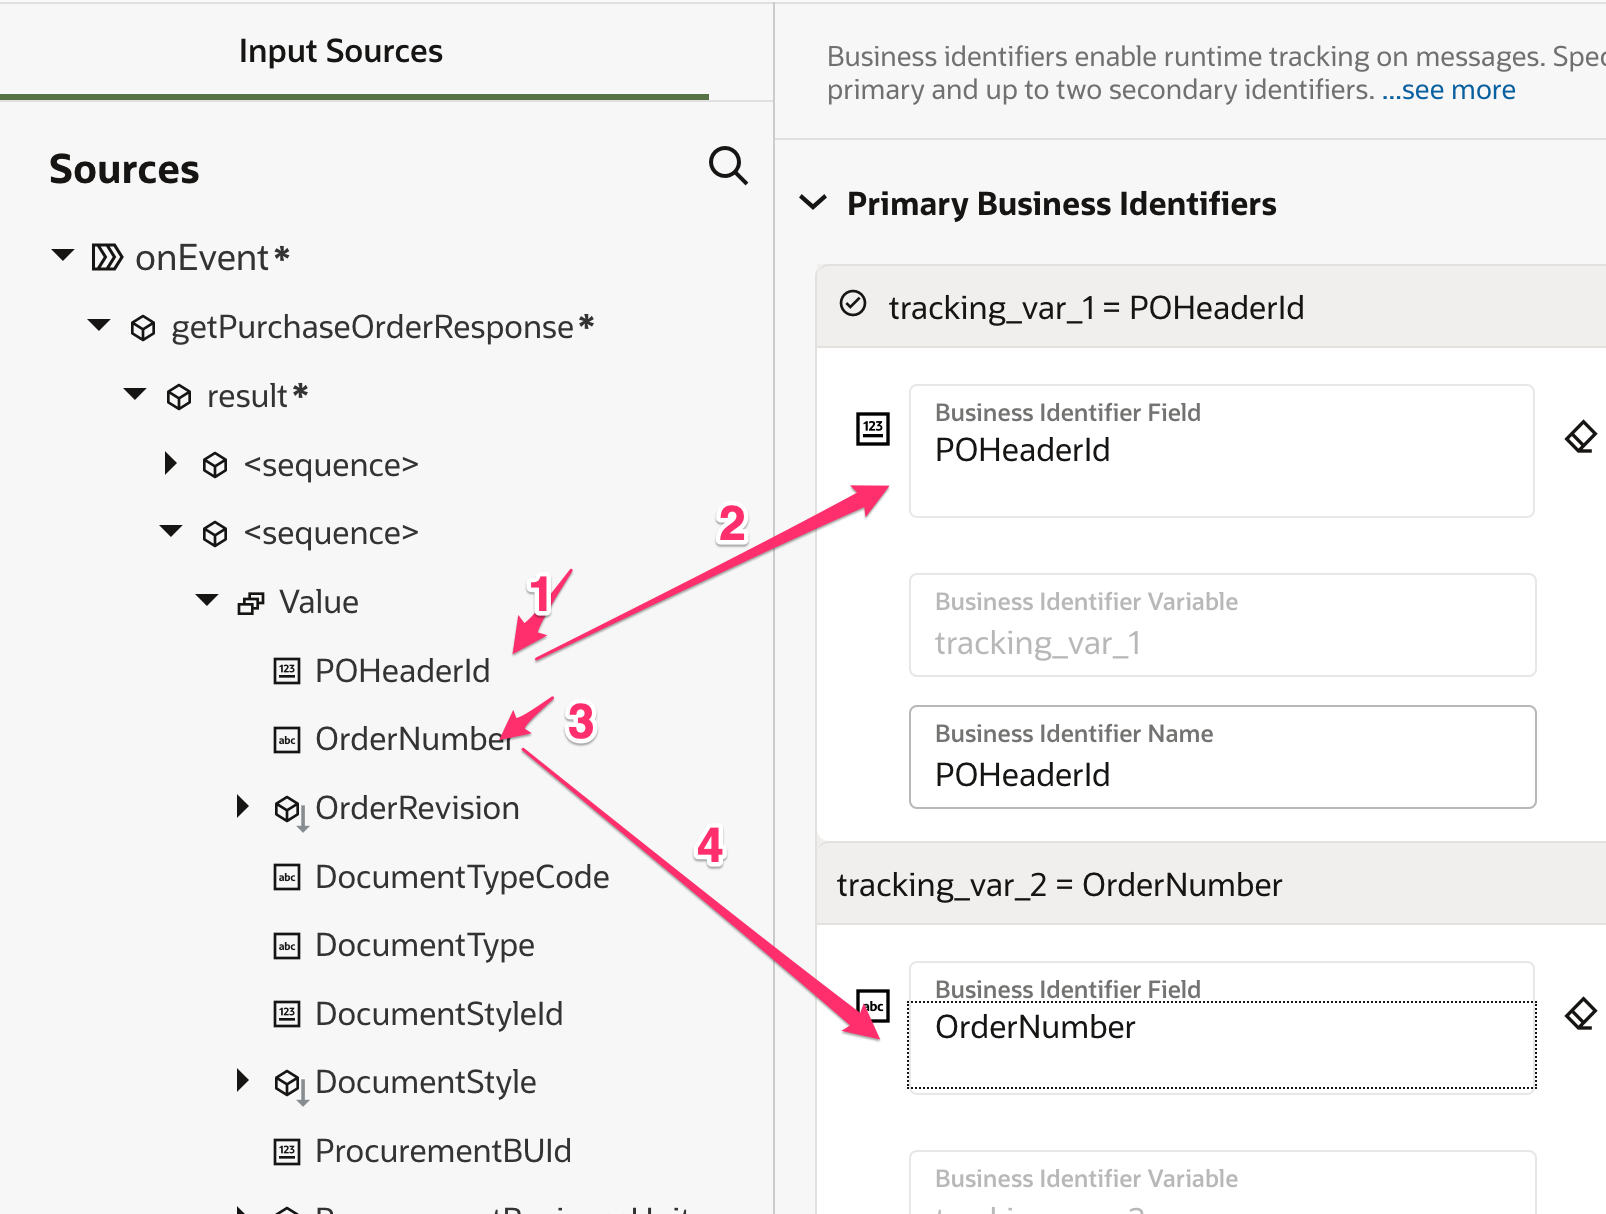
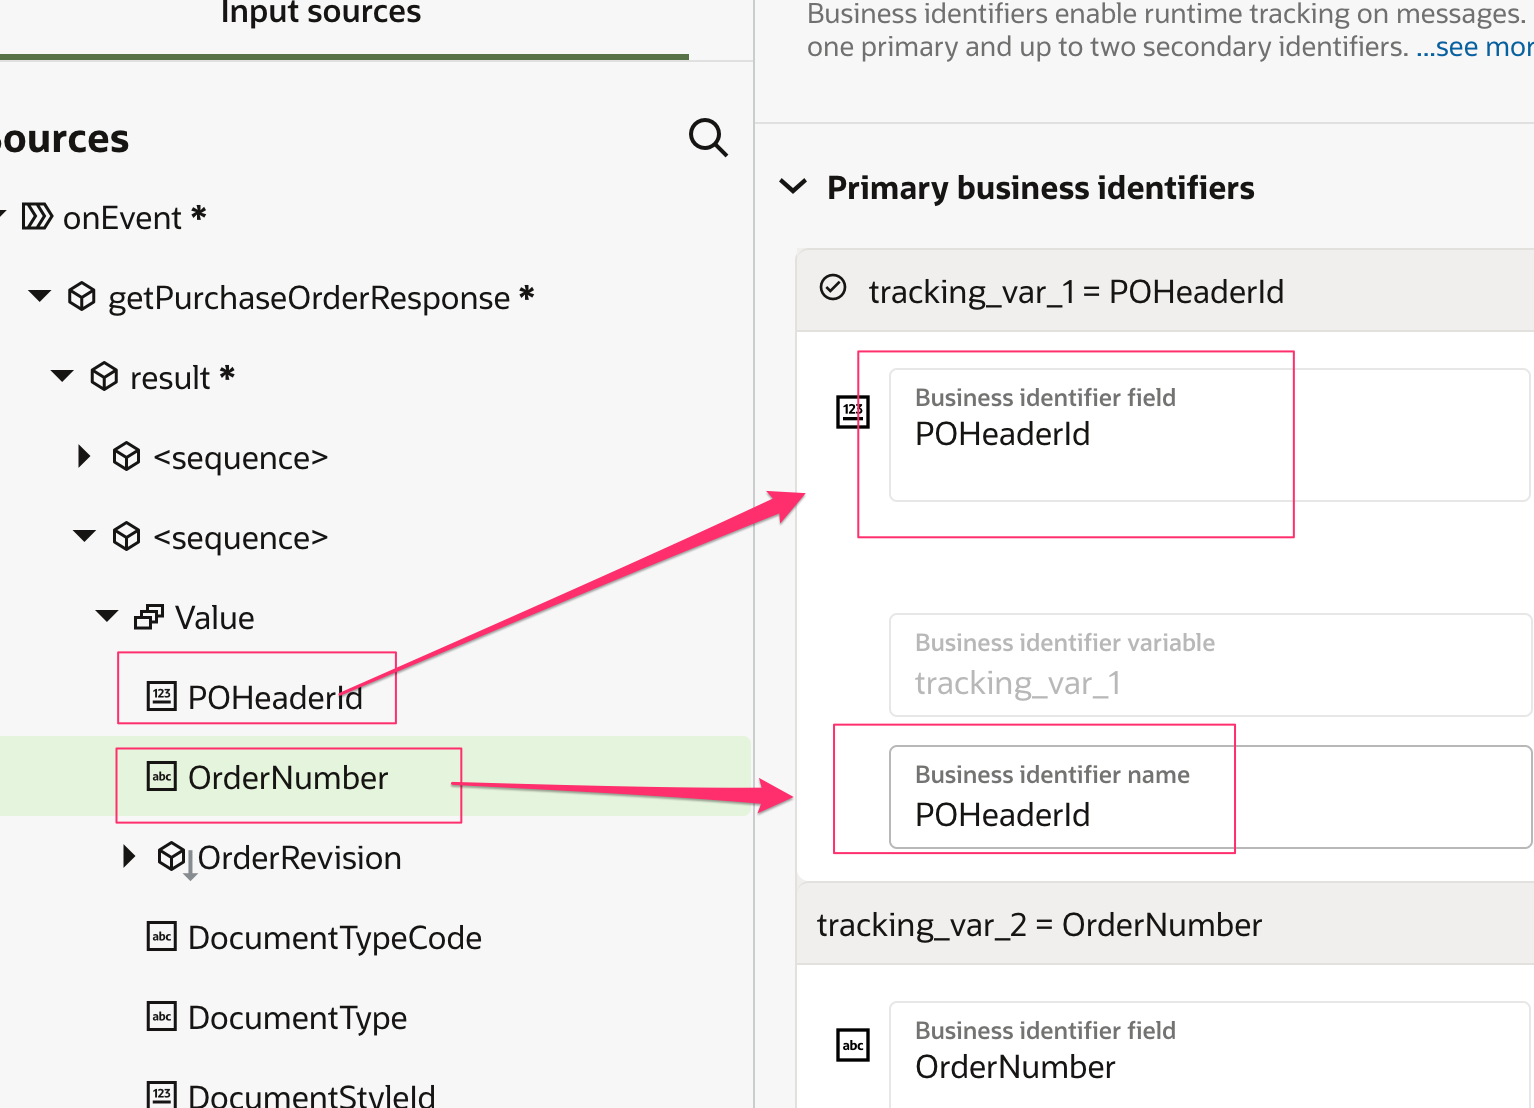
Events review
Cookbook Events review completed

diff --git a/oic-gen3/cookbooks/erp-cloud/realtimesync/business-events/business-events-integration.md b/oic-gen3/cookbooks/erp-cloud/realtimesync/business-events/business-events-integration.md
@@ -55,13 +55,12 @@ Add ERP PO Event trigger to the empty integration canvas.
 
 1. Click the ***+*** sign below **START** in the integration canvas.
 
-2. Select the ERP Cloud connection which you have created in the previous labs. This invokes the Oracle ERP Cloud Endpoint Configuration Wizard.
+2. Select the *ERP Cloud* connection which you have created in the previous labs. This invokes the Oracle ERP Cloud Endpoint Configuration Wizard.
+3. On the **Basic Info** page,
+     - for the **What do you want to call your endpoint?** element, enter ***POEvent***
+     - Click ***> (Next Step)***.
 
-3. On the Basic Info page, for the **What do you want to call your endpoint?** element, enter ***POEvent***.
-
-4. Click ***> (Next Step)***.
-
-5. On the Request page, select the following values:
+4. On the **Request** page, select the following values:
 
     | **Element**        | **Value**          |       
     | --- | ----------- |
@@ -81,23 +80,24 @@ Add ERP PO Event trigger to the empty integration canvas.
     > **Note:** The filter is not required, however, it does allow you to control which integration should be triggered. This is useful if there are multiple integrations subscribed to the PO Event in the same ERP Cloud environment. Without the filter expression, all integrations subscribed to the PO Event would get triggered whenever that specific event occurs.
 
 6. Click ***> (Next Step)***.
-
-7. On the Response page, for **Response Type** element, choose ***None***. Click ***> (Next Step)***.
-
-8. On the Summary page, click ***Done***.
-
+7. On the **Response page**,
+    - for **Response Type** element, choose ***None***.
+    - Click ***> (Next Step)***.
+8. On the **Summary** page, click ***Done***.
 9. Click ***Save*** to persist changes.
+10. Optional, Select Layout to ***Horizontal*** and click ***Save*** to apply changes.
+![Select Horizontal Layout](images/horizontallayout.png =30%x*)
 
 ## Task 3: Add the FTP Adapter as invoke activity
 Add the FTP Adapter invoke to the integration canvas.
-1. Hover your cursor over the arrow in the integration canvas to display the ***+*** sign. Click the ***+*** sign and select the FTP Connection the previous lab.
+1. Hover your cursor over the arrow in the integration canvas to display the ***+*** sign. Click the ***+*** sign and select the **File Server** Connection created in the previous lab.
 This invokes the FTP adapter Configuration Wizard.
-2. On the **Basic Info** page, select the following values:
+2. On the **Basic Info** page, select the following values and click ***> (Next Step)***.
   | **Element**        | **Value**          |       
   | --- | ----------- |
   | What do you want to call your endpoint? | `Write2FTP`       |
 
-3. On the **Operation** page, select the following values:
+3. On the **Operation** page, select the following values and click ***> (Next Step)***.
 
     | **Element**        | **Value**          |       
     | --- | ----------- |
@@ -106,8 +106,10 @@ This invokes the FTP adapter Configuration Wizard.
     | File Name Pattern | PO%SEQ%.json  |
 
     Leave the rest as default.
-3. On the **Schema page**, select the ***Sample JSON document*** from the drop-down. In the **Do you want to specify the structure of the contents of the file?** as ***Yes***
-4. Copy the below json content into a file and save it to your desktop. Name it as ***PurchaseOrder.json***
+3. On the **Schema page**,
+    - For the **Do you want to specify the structure of the contents of the file?**, select as ***Yes***
+    - select the ***Sample JSON document*** from the drop-down.
+    - Copy the below json content into a file and save it to your desktop. Name it as ***PurchaseOrder.json***
 
 ```
 <copy>
@@ -122,9 +124,10 @@ This invokes the FTP adapter Configuration Wizard.
   }
 </copy>
 ```
-5. On the **File Contents - Definition** page, upload the file **PurchaseOrder.json** saved in the previous step
-6. Click ***> (Next Step)*** and Review the **Summary** page and click on ***Done***
-7. Click on ***Save***
+4. Click ***> (Next Step)***.
+6. On the **File Contents - Definition** page, upload the file **PurchaseOrder.json** saved in the previous step
+7. Click ***> (Next Step)*** and Review the **Summary** page and click on ***Done***
+8. Click on ***Save***
 
 ## Task 4: Map data between ERP trigger and FTP invoke
 Use the mapper to drag fields from the source structure (POEvent)  to the target structure (Write2FTP) to map elements between the two.
@@ -152,13 +155,13 @@ When we added the FTP invoke to the integration, a map icon was automatically ad
 
     | **Source** *(ERP Cloud)*        | **Target** *(FTP)* |
     | --- | ----------- |
-    | PO Header Id | poHeaderId |
-    | Order Number | orderNumber |
-    | Procurement BU Id | procurementBUId |
-    | Procurement Business Unit | procurementBusinessUnit |
-    | Sold To Legal Entity Id | soldToLegalEntity |
-    | supplierId | supplierId |
-    | supplier | supplier |
+    | PO Header Id | PO Header Id |
+    | Order Number | Order Number |
+    | Procurement BU Id | Procurement BU Id |
+    | Procurement Business Unit | Procurement Business Unit |
+    | Sold To Legal Entity Id | Sold To Legal Entity |
+    | supplierId | Supplier Id |
+    | supplier | Supplier |
 
 
    ![Completed Mapping](images/mapper-completed-erp-ftp-1.png)
@@ -177,7 +180,7 @@ Manage business identifiers that enable you to track fields in messages during r
 1. Click on the ***(I) Business Identifiers*** menu on the top right.
     ![Open Business Identifiers For Tracking](images/open-business-identifiers.png)
 
-2. From the **Source** section, expand ***getPurchaseOrderResponse*** > ***result***, click on 2nd ***<sequence>***, expand ***Value***. Drag the ***POHeaderId*** and ***OrderNumber***  fields to the right side section:
+2. From the **Source** section, expand ***getPurchaseOrderResponse*** > ***result***, click on 2nd sequence, expand ***Value***. Drag the ***PO Header Id*** and ***Order Number***  fields to the right side section:
 
     ![Assign Business Identifiers](images/assign-business-identifiers.png)
 
@@ -191,7 +194,7 @@ Manage business identifiers that enable you to track fields in messages during r
 
     ![Click to Activate Integration](images/click-activate-integration.png)
 
-2. On the **Activate Integration** dialog, select ***Enable Tracing***, followed by ***Include Payload*** options.
+2. On the **Activate Integration** dialog, select ***Audit*** as tracing level.
 
 3. Click ***Activate***.
 
@@ -216,13 +219,11 @@ Access your ERP Cloud environment.
 
   The **Create Order** dialog is displayed.
 
-6. Enter a valid entry in the **Supplier** field, for example, `ABC Consulting`, and select the corresponding supplier in the dropdown.
+6. Select **Requisitioning BU** as **Procurement BU** and Enter a valid entry in the **Supplier** field, for example, `Dell Inc`, and select the corresponding supplier in the dropdown.
 
   **Tip:** You can also search for valid suppliers using the **Search** icon.
 
 7. Click ***Create***.
-
-      ![Create Purchase Order](images/create-po.png)
 
   The **Edit Document (Purchase Order)** page is displayed.
 
@@ -233,31 +234,16 @@ Access your ERP Cloud environment.
 
       | **Field**        | **Value**          |       
       | --- | ----------- |
-      | Line | `1` (Default)       |
       | Type | `Goods` |
-      | Item | Choose a valid item. For example, start typing `AS`, and choose an item from the resulting drop-down (or press the search button to select a valid item)
       | Description | Remove the existing description and enter the same value used for **Lab 7 > Task 5 > Step 5: Filter Expr for Purchase Order Event**. For example: `Lan Cable <your-initials>`|
-      | Quantity | Enter a valid number, eg. `2` |
+      | Category Name | search for Computer Supplies and then select it |
+      | Quantity | Enter a valid number, eg. `1` |
       | UOM | `Ea` (Default) |
-      | Base Price | Enter a valid number, eg. `2`
+      | Base Price | Enter a valid number, eg. `1.0`
 
-      ![Review PO line](images/review-po-line.png)
-
-10. Click the ***EDIT*** button under the *Lines* section.
-      ![Edit PO line](images/edit-po-line.png)
-
-      This opens the *Edit Line* page for the current purchase order line.
-
-11. Enter a future date in either *Requested Delivery Date* or *Promised Delivery Date* fields.
-      ![Add PO line delivery date](images/add-delivery-date.png)
-
-12. Click ***OK*** at the top right of the *Edit Line* page and return to the parent window.
-
-13. Click ***Submit*** to initiate the Purchase Order processing.
+10. Click ***Submit*** to initiate the Purchase Order processing.
 
     After submitting the Purchase Order, a confirmation message should appear with the PO number. Make a note of the **PO number**
-
-14. Click ***OK*** to close the confirmation dialog.
 
 
 ## Task 8: Validate Purchase Order status
@@ -283,7 +269,7 @@ Access your ERP Cloud environment.
 ## Task 9: Track message flow triggered by the PO Create Event
 Use the Oracle Integration dashboard to see the data flow resulting from the create Purchase Order event in ERP Cloud.
 
-1. In the Integration navigation pane, click ***Home*** > ***Observability*** > ***Instances***
+1. In the Integration navigation pane, Go back to the ***Home*** page > click on ***Observability*** > ***Instances***
 
 2. Find our corresponding Integration Instance, by matching the *PO Header Id* or *Order Number* from the Purchase Order in ERP Cloud. This should be under the columns *Primary Identifier* or *Business Identifiers*.
 
@@ -321,4 +307,4 @@ You may now **proceed to the next lab**.
 
 * **Author** - Subhani Italapuram, Director Product Management, Oracle Integration
 * **Contributors** - Kishore Katta, Director Product Management, Oracle Integration
-* **Last Updated By/Date** - Kishore Katta, July 2022
+* **Last Updated By/Date** - 

diff --git a/oic-gen3/common/create-connections/create-connections.md b/oic-gen3/common/create-connections/create-connections.md
@@ -21,7 +21,7 @@ To access the File Server from an Integration, you will need to create an FTP Co
 **Note**: You can use an existing connection if one has already been configured for your environment.
 
 1. In the left Navigation pane, click **Design** > **Connections** > click **Create**
-2. select the **FTP** Adapter and click on it.
+2. In the *Create Connection* dialog, select the **FTP** adapter to use for this connection. To find the adapter, enter FTP in the search field. Click on the highlighted adapter
 3. From the *Create Connection* dialog, *Name* your connection as **File Server** and leave the rest of the configurations as default. Click **Create**.  
 **Note**: If you get an error that the identifier already exists, change the Connection Name and remember this name for use later in the workshop.
 4. Enter the following configurations in the *FTP Connection* with the information you previously gathered from the File Server Settings page.  

diff --git a/oic-gen3/cookbooks/erp-cloud/realtimesync/business-services/business-services-integration.md b/oic-gen3/cookbooks/erp-cloud/realtimesync/business-services/business-services-integration.md
@@ -46,7 +46,7 @@ This lab assumes you have:
 5. Confirm your Connection by clicking ***Test***. You should see the **Connection LL REST Interface was tested successfully** confirmation message. Click ***Save*** and exit the Connection editor.
 
 ##	Task 2: Create the Invoice Validation Integration
-1. In the left Navigation pane, Click ***Integrations***.
+1. In the left Navigation pane, click ***Design*** > ***Integrations***.
 2. On the **Integrations page**, click ***Create***.
 3. On the **Integration Style** dialog, select ***App Driven Orchestration***, followed by ***Create***
 ![Select Integration Style](images/select-integration-style-1.png)

diff --git a/oic-gen3/cookbooks/erp-cloud/realtimesync/introduction/introduction.md b/oic-gen3/cookbooks/erp-cloud/realtimesync/introduction/introduction.md
@@ -4,7 +4,7 @@
 
 This workshop shows you how to design and develop a Real time Synchronization Usecase in Oracle Integration 3 integrating with the ERP cloud. Out of the box, ERP Cloud adapter helps an Integration developer to quickly consume Business Events and Business Services in a secured way using various authentication schemes.
 
-Estimated Time: 2 hours
+Estimated Time: 4 hours 30 minutes
 
 ### What Will You Learn?
 
